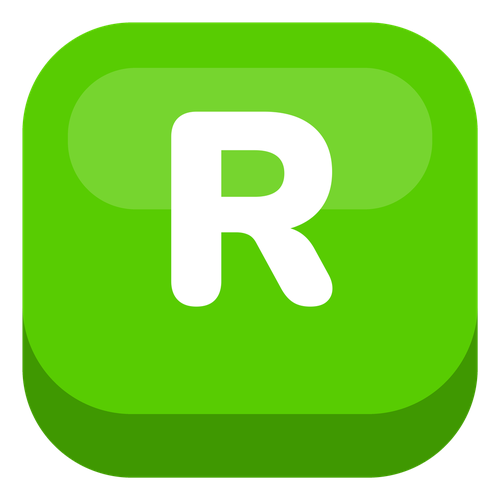
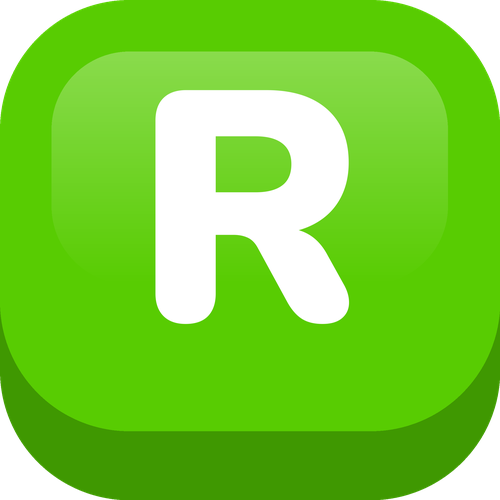
feat: desks separated on the Course tab, brand assets redrawn, landing copy refreshed
Four founder directives from 2026-10-14 evening:

- DESK SEPARATION on /courses: "separate jamb waec and neco subject
  from course in tertiary institution desk page - their subject should
  only appear in their own desk." The list face now filters strictly
  by the active desk body, a compact desk switcher (JAMB / WAEC /
  NECO / University) appears when a student carries subjects from
  more than one body, legacy rows without a body ride the focus desk,
  and the selection catalog follows the active desk - the tertiary
  tree never lists a JAMB subject again. Verified in the browser:
  seeded jamb+tertiary lists render one course set per desk.

- BRAND ASSETS redrawn to the current 3D-flat keycap (scripts/
  gen_brand_assets.py, Nunito 900 instanced from the app's own
  shipped variable font): renance-mark-500.png, renance-mark.png,
  icon-192.png lose the retired black box for the full-bleed keycap
  (edge #3f9801, face #58cc02, gloss, white R) and og-feature.png
  becomes the brand-green board with the keycap, the lowercase
  wordmark, the tagline and the JAMB/WAEC/NECO/University shelf pills.

- LANDING DESCRIPTION refreshed for what Renance now is: the hero
  paragraph, the meta/OG/Twitter descriptions and the PWA manifest
  lead with the step-by-step courses, real past questions, daily
  quests, leagues, arena and feed instead of the old feature list.

diff --git a/apps/web/app/courses/page.tsx b/apps/web/app/courses/page.tsx
@@ -22,6 +22,16 @@
  * API is only asked for the student's OWN list, and that list falls
  * back to the last cached copy on this device.
  *
+ * DESK SEPARATION (founder directive 2026-10-14, evening pass:
+ * "separate jamb waec and neco subject from course in tertiary
+ * institution desk page - their subject should only appear in their
+ * own desk"): every body is its own desk on this tab. The list face
+ * shows ONLY the active desk's courses; a student carrying subjects
+ * from several bodies gets a small desk switcher and each subject
+ * appears strictly under its own desk. The selection catalog follows
+ * the active desk too - the tertiary desk's tree never lists a JAMB
+ * subject, and vice versa.
+ *
  * NO level tag anywhere - the founder removed it from the courses list.
  */
 
@@ -106,6 +116,17 @@ export default function CoursesPage() {
   const [catPage, setCatPage] = useState(1);
   const [picked, setPicked] = useState<Set<string>>(new Set());
   const [saving, setSaving] = useState(false);
+
+  // Desk separation: the desks this student actually carries, focus
+  // body first. Rows saved before the body column existed (empty body)
+  // ride the focus desk so they never vanish.
+  const deskBodies = useMemo(() => {
+    const DESKS = ['jamb', 'waec', 'neco', 'tertiary'];
+    const present = new Set<string>();
+    for (const c of mine ?? []) present.add(c.body || body);
+    const rest = DESKS.filter((b) => present.has(b) && b !== body);
+    return [body, ...rest];
+  }, [mine, body]);
 
   const boot = useCallback(async () => {
     setLoading(true);
@@ -332,33 +353,63 @@ export default function CoursesPage() {
               <EmptyList onChoose={() => setFace('select')} />
             ) : (
               <>
+                {/* Desk switcher: one desk per exam body - each subject
+                    appears ONLY under its own desk (founder 2026-10-14).
+                    Hidden entirely when every saved course lives on the
+                    active desk. */}
+                {deskBodies.length > 1 && (
+                  <div className="no-scrollbar -mx-4 flex items-center gap-1.5 overflow-x-auto px-4">
+                    {deskBodies.map((b) => (
+                      <button
+                        key={b}
+                        type="button"
+                        onClick={() => setBody(b)}
+                        aria-pressed={b === body}
+                        className={`whitespace-nowrap rounded-full border-2 px-3.5 py-1.5 text-[12px] font-extrabold transition active:translate-y-[1px] ${
+                          b === body
+                            ? 'border-primary bg-primary text-white'
+                            : 'border-outline-variant bg-card text-on-surface-variant'
+                        }`}
+                      >
+                        {learnBodyLabel(b)} desk
+                      </button>
+                    ))}
+                  </div>
+                )}
                 <p className="px-1 text-[12.5px] font-bold text-on-surface-variant">
-                  Your course list - tap one to open its roadmap.
+                  Your {learnBodyLabel(body)} desk courses - tap one to open its roadmap.
                 </p>
-                {mine.map((c) => (
-                  <button
-                    key={c.id}
-                    type="button"
-                    onClick={() => void openPath(c.id)}
-                    className="learn-tile w-full rounded-2xl border-2 border-outline-variant bg-card p-4 text-left transition hover:border-primary/40 active:translate-y-[2px]"
-                  >
-                    <div className="flex items-center gap-3">
-                      <span className="flex h-11 w-11 shrink-0 items-center justify-center rounded-xl bg-primary/15">
-                        <span className="material-symbols-outlined text-[22px] text-primary-ink">menu_book</span>
-                      </span>
-                      <span className="min-w-0 flex-1">
-                        <span className="block truncate text-[15px] font-black text-on-surface">{c.title}</span>
-                        <span className="mt-0.5 block text-[12px] font-bold text-on-surface-variant">
-                          {learnBodyLabel(c.body)} · {c.completedTopics}/{c.topicCount} topics done
+                {mine
+                  .filter((c) => (c.body || body) === body)
+                  .map((c) => (
+                    <button
+                      key={c.id}
+                      type="button"
+                      onClick={() => void openPath(c.id)}
+                      className="learn-tile w-full rounded-2xl border-2 border-outline-variant bg-card p-4 text-left transition hover:border-primary/40 active:translate-y-[2px]"
+                    >
+                      <div className="flex items-center gap-3">
+                        <span className="flex h-11 w-11 shrink-0 items-center justify-center rounded-xl bg-primary/15">
+                          <span className="material-symbols-outlined text-[22px] text-primary-ink">menu_book</span>
                         </span>
-                        <span className="mt-1.5 block">
-                          <ProgressBar value={c.topicCount ? (c.completedTopics / c.topicCount) * 100 : 0} />
+                        <span className="min-w-0 flex-1">
+                          <span className="block truncate text-[15px] font-black text-on-surface">{c.title}</span>
+                          <span className="mt-0.5 block text-[12px] font-bold text-on-surface-variant">
+                            {c.completedTopics}/{c.topicCount} topics done
+                          </span>
+                          <span className="mt-1.5 block">
+                            <ProgressBar value={c.topicCount ? (c.completedTopics / c.topicCount) * 100 : 0} />
+                          </span>
                         </span>
-                      </span>
-                      <span className="material-symbols-outlined text-[20px] text-on-surface-variant">chevron_right</span>
-                    </div>
-                  </button>
-                ))}
+                        <span className="material-symbols-outlined text-[20px] text-on-surface-variant">chevron_right</span>
+                      </div>
+                    </button>
+                  ))}
+                {mine.filter((c) => (c.body || body) === body).length === 0 && (
+                  <p className="rounded-2xl border-2 border-dashed border-outline-variant bg-card px-6 py-8 text-center text-[13px] font-bold text-on-surface-variant">
+                    No courses on this desk yet - switch the desk above or add more courses.
+                  </p>
+                )}
               </>
             )}
           </div>

diff --git a/apps/web/app/layout.tsx b/apps/web/app/layout.tsx
@@ -148,7 +148,7 @@ export const metadata: Metadata = {
     template: '%s · Renance',
   },
   description:
-    "Renance is the educational app in Nigeria: 235,110+ JAMB, WAEC, NECO and Post-UTME past questions with worked solutions, free server-graded CBT mocks, NERDC lesson notes, Renance AI and school management (Renance for Schools) - built by Resolute Femi.",
+    "Renance is the educational app in Nigeria: learn JAMB, WAEC, NECO and university courses step by step, practise 235,110+ real past questions with worked solutions, win daily quests, climb the leagues and follow friends on the feed - free, built by Resolute Femi.",
   keywords: [
     'JAMB past questions',
     'JAMB past questions and answers',
@@ -192,14 +192,14 @@ export const metadata: Metadata = {
     locale: 'en_NG',
     title: "Renance - Nigeria's Educational App for JAMB, WAEC & NECO",
     description:
-      '235,110+ real past questions with worked explanations, free server-graded CBT mocks, lesson notes, Renance AI and school management - built for Nigerian students and schools.',
+      'Learn JAMB, WAEC, NECO and university courses step by step, practise 235,110+ real past questions with worked solutions, win daily quests, climb the leagues and follow friends on the feed - free on renance.app.',
     images: [...OG_IMAGES],
   },
   twitter: {
     card: 'summary_large_image',
     title: "Renance - Nigeria's Educational App for JAMB, WAEC & NECO",
     description:
-      '235,110+ real past questions with worked explanations, free server-graded CBT mocks, lesson notes, Renance AI and school management - built for Nigerian students and schools.',
+      'Learn JAMB, WAEC, NECO and university courses step by step, practise 235,110+ real past questions, win daily quests, climb the leagues and follow friends on the feed - free on renance.app.',
     creator: '@Resolutefemi',
     images: [TWITTER_CARD_IMAGE],
   },

diff --git a/apps/web/app/page.tsx b/apps/web/app/page.tsx
@@ -251,12 +251,12 @@ export default function Landing() {
             </h1>
 
             <p className="hero-enter hero-enter-2 mx-auto mt-6 max-w-2xl text-[15px] leading-relaxed text-on-surface-variant sm:text-lg">
-              Renance is the educational app in Nigeria for JAMB, WAEC, NECO and Post-UTME
-              success: {fmt(totalQuestions)}+ real past questions from {yearFrom} to {yearTo},
-              server-graded CBT mocks, a review queue that plans itself, voice flashcards and the
-              JAMB novel built in. And for schools: a full portal with syllabuses, notes,
-              attendance, timetables, an exam question bank, fees, ID cards and PIN-secured
-              results. Free, on Android, iOS, Windows, macOS and the web.
+              Renance is the educational app in Nigeria for JAMB, WAEC, NECO and university
+              success: learn exam-ready courses step by step, drill {fmt(totalQuestions)}+ real
+              past questions from {yearFrom} to {yearTo} with server-graded CBT mocks, and stay
+              in the game with daily quests, leagues, a live arena and a feed that celebrates
+              your wins. Schools get a full portal with syllabuses, notes, attendance, results
+              and fees. Free, on Android, iOS, Windows, macOS and the web.
             </p>
 
             <div className="hero-enter hero-enter-3 mt-9 flex flex-wrap items-center justify-center gap-3.5">

diff --git a/apps/web/app/manifest.ts b/apps/web/app/manifest.ts
@@ -15,7 +15,7 @@ export default function manifest(): MetadataRoute.Manifest {
     name: "Renance - Nigeria's Educational App",
     short_name: 'Renance',
     description:
-      "Renance is the educational app in Nigeria: 235,110+ JAMB, WAEC, NECO and Post-UTME past questions, free server-graded CBT mocks, lesson notes and Renance AI.",
+      "Renance is the educational app in Nigeria: learn JAMB, WAEC, NECO and university courses step by step, practise 235,110+ real past questions, win daily quests and climb the leagues.",
     start_url: '/',
     scope: '/',
     display: 'standalone',
